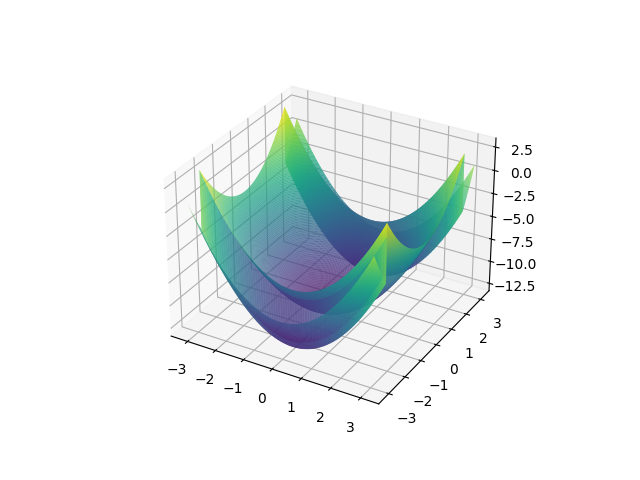
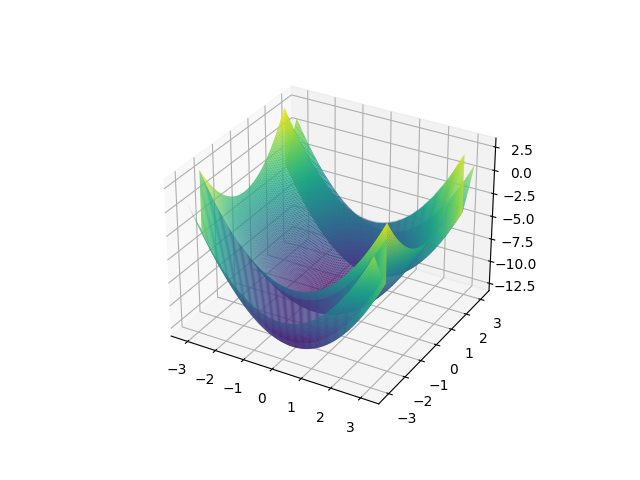
display the 2D surfaces

diff --git a/Algorithm.py b/Algorithm.py
@@ -5,14 +5,12 @@ import numpy as np
 import time
 import cv2
 
-w_length=0.633 #um
 
 xx=np.linspace(-np.pi,np.pi,num=1024)
 yy=np.linspace(-np.pi,np.pi,num=1024)
 x,y=np.meshgrid(xx,yy)
 
 r=x**2 +y**2
-k=2*np.pi/w_length
 z=(1/r)*np.exp(1j*r)
 
 phase=np.angle(z)     #wrapped phase
@@ -20,13 +18,15 @@ phase=np.angle(z)     #wrapped phase
 # Plot the surface
 fig = plt.figure(1)
 ax = plt.axes(projection='3d')
-surf = ax.plot_surface(x, y, phase,rstride=4, cstride=4,cmap='viridis', edgecolor='none')
+surf = ax.plot_surface(x, y, phase,rstride=5, cstride=5,cmap='viridis', edgecolor='none')
 plt.savefig("phasewrap.png")
+plt.imsave("phasewrap2D.png",phase, cmap='gray') 
 
 realphase=np.unwrap(phase)
 
 # Plot the surface
 fig = plt.figure(2)
 ax = plt.axes(projection='3d')
-surf = ax.plot_surface(x, y, realphase,rstride=4, cstride=4,cmap='viridis', edgecolor='none')
+surf = ax.plot_surface(x, y, realphase,rstride=5, cstride=5,cmap='viridis', edgecolor='none')
 plt.savefig("phaseunwrap.png")
+plt.imsave("phaseunwrap2D.png",realphase, cmap='gray') 
